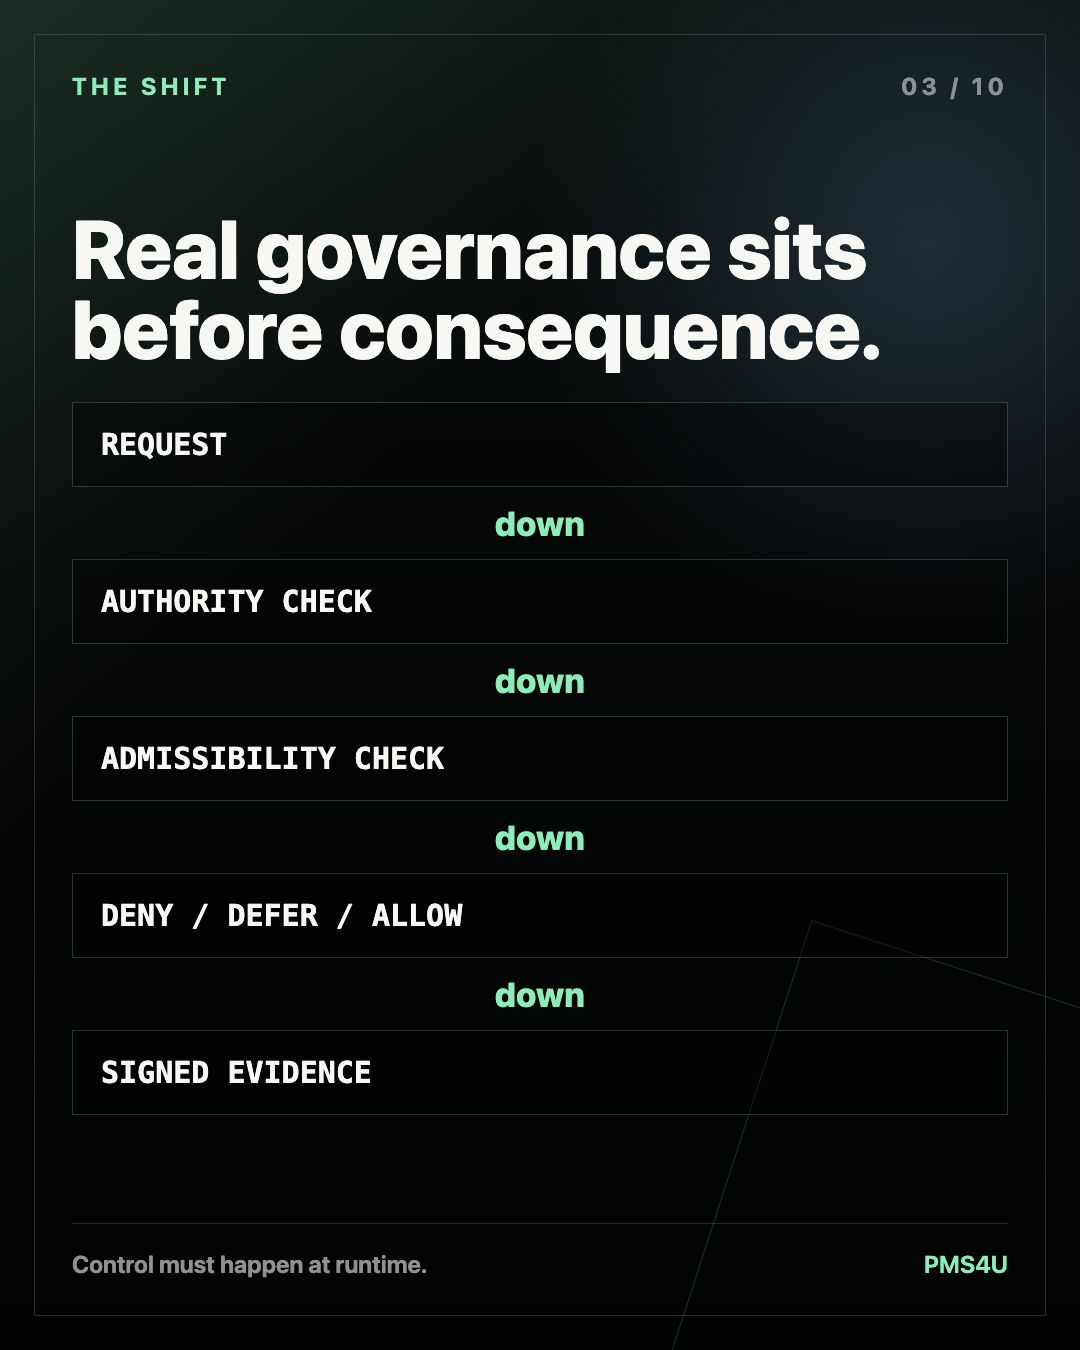
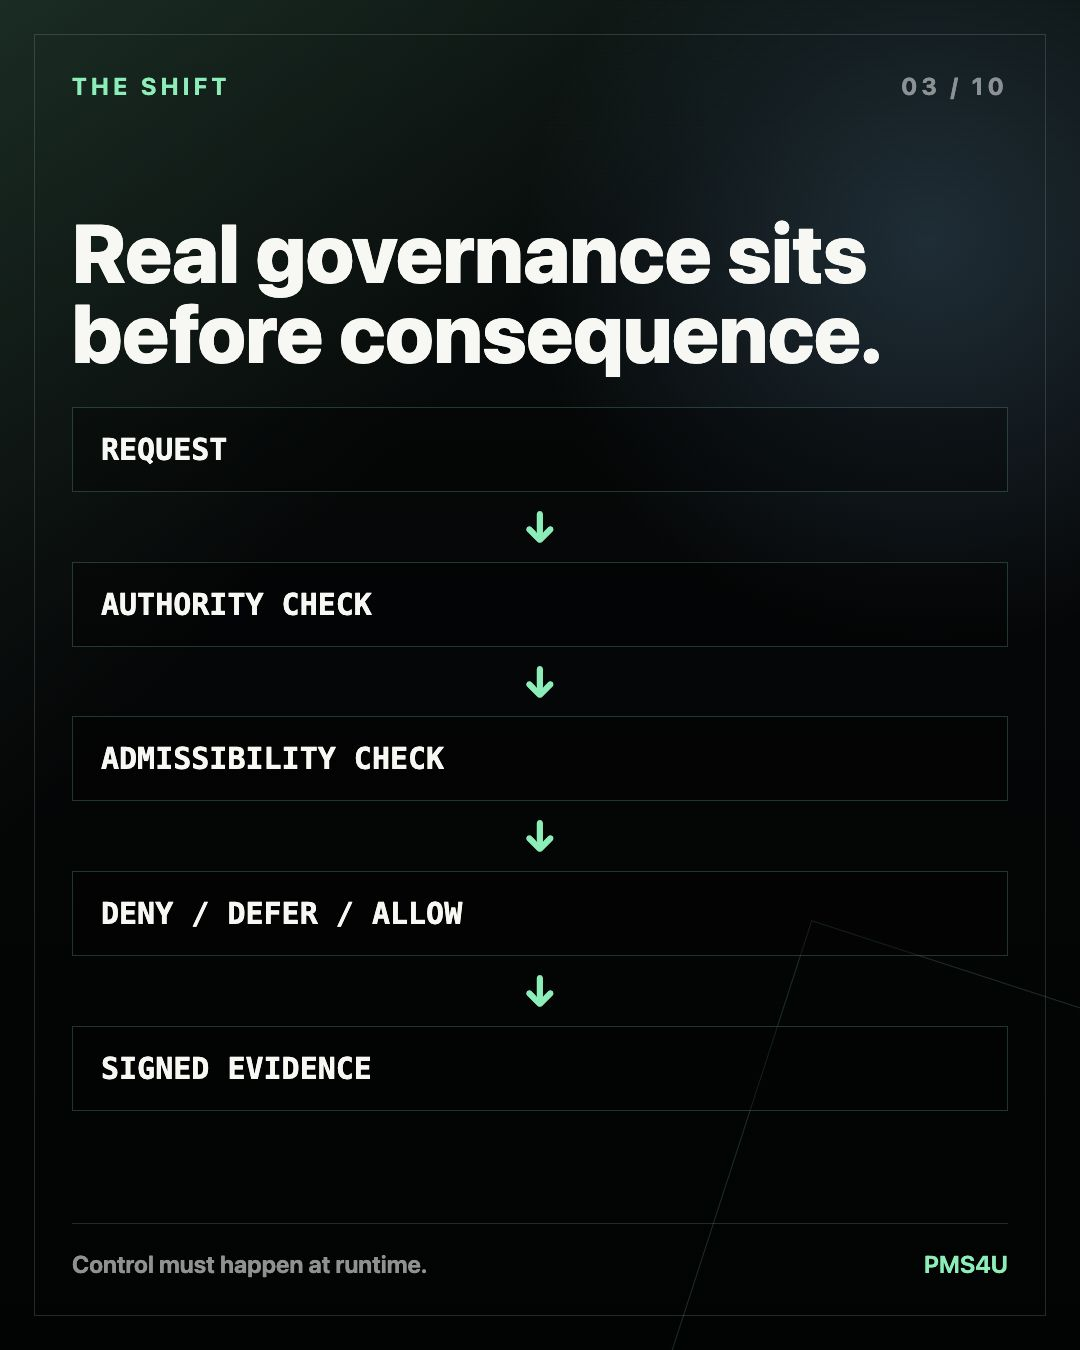
Tighten runtime governance carousel

diff --git a/public/linkedin/runtime-governance-real-carousel/index.html b/public/linkedin/runtime-governance-real-carousel/index.html
@@ -198,9 +198,35 @@
 
       .arrow {
         color: var(--green);
-        font-size: 34px;
+        font-size: 42px;
         font-weight: 800;
+        line-height: 0.9;
         text-align: center;
+      }
+
+      .outcome-state {
+        border: 2px solid rgba(255, 112, 107, 0.62);
+        background:
+          linear-gradient(135deg, rgba(255, 112, 107, 0.16), rgba(103, 240, 181, 0.06)),
+          rgba(0, 0, 0, 0.46);
+        padding: 30px;
+      }
+
+      .outcome-state strong {
+        display: block;
+        color: var(--red);
+        font-size: 58px;
+        font-weight: 880;
+        line-height: 0.96;
+      }
+
+      .outcome-state span {
+        display: block;
+        margin-top: 14px;
+        color: var(--ink);
+        font-size: 28px;
+        font-weight: 650;
+        line-height: 1.2;
       }
 
       .red {
@@ -314,13 +340,13 @@
         <h2>Real governance sits before consequence.</h2>
         <div class="flow">
           <div class="step">REQUEST</div>
-          <div class="arrow">down</div>
+          <div class="arrow">↓</div>
           <div class="step">AUTHORITY CHECK</div>
-          <div class="arrow">down</div>
+          <div class="arrow">↓</div>
           <div class="step">ADMISSIBILITY CHECK</div>
-          <div class="arrow">down</div>
+          <div class="arrow">↓</div>
           <div class="step">DENY / DEFER / ALLOW</div>
-          <div class="arrow">down</div>
+          <div class="arrow">↓</div>
           <div class="step">SIGNED EVIDENCE</div>
         </div>
       </div>
@@ -360,6 +386,10 @@
       <div class="top"><span class="brand">Example</span><span class="number">06 / 10</span></div>
       <div class="content">
         <h2>A shipment tries to export.</h2>
+        <div class="outcome-state">
+          <strong>EXPORT BLOCKED</strong>
+          <span>No authority. No irreversible status change.</span>
+        </div>
         <div class="grid two">
           <div class="card"><strong>Action</strong><span>Change shipment status to EXPORTED.</span></div>
           <div class="card"><strong>Gap</strong><span>Authority missing or evidence incomplete.</span></div>
@@ -409,8 +439,8 @@
     <section class="slide" data-slide="10">
       <div class="top"><span class="brand">Question</span><span class="number">10 / 10</span></div>
       <div class="content">
-        <h2>If your automation can execute...</h2>
-        <p class="big">Who proves it had authority?</p>
+        <h2>If AI can execute...</h2>
+        <p class="big">Who signs the consequence?</p>
         <p>That is the execution boundary PMS4U is building.</p>
         <div class="card">
           <strong class="green">Next proof step</strong>

diff --git a/public/linkedin/runtime-governance-real-carousel/caption.md b/public/linkedin/runtime-governance-real-carousel/caption.md
@@ -31,7 +31,7 @@ Authority before execution.
 
 The next serious question for every AI agent, workflow, ERP action, shipment approval, vendor release, or customer data export is:
 
-Who proves this action had authority before it became consequence?
+If AI can execute, who signs the consequence?
 
 That is the runtime governance problem.
 That is where PMS4U is positioned.
